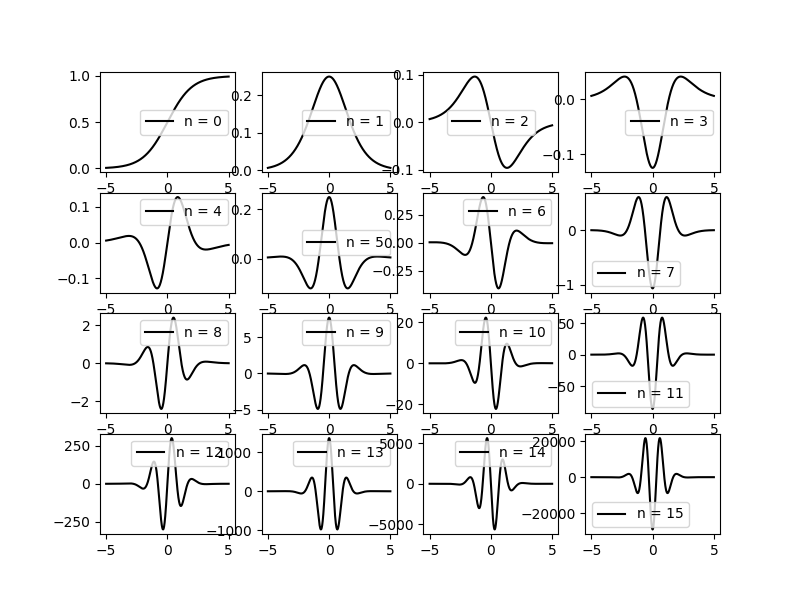
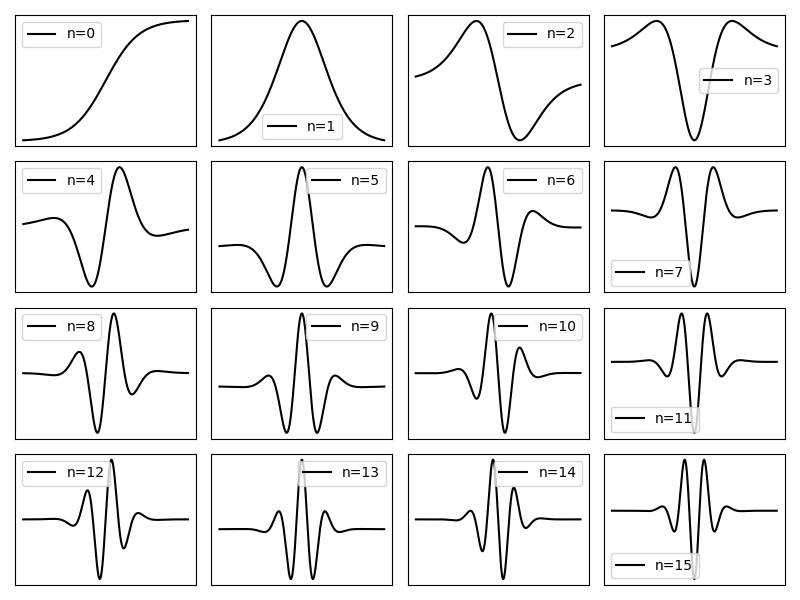
.

diff --git a/app/src/routes/about/+page.svelte b/app/src/routes/about/+page.svelte
@@ -1,3 +1,89 @@
-<h1>Hi, I'm Joe!</h1>
+<p class="title">About</p>
 
-<p>This is my about page.</p>
+Hi, I'm Joe. I write about AI and math.
+
+<p class="title">Résumé</p>
+
+<div class="section">
+	<p class="title">Experience</p>
+
+	<div class="item">
+		<div class="title">Software Engineer</div>
+		<div class="text">Google Cloud AI</div>
+		<div class="text">2020 - present</div>
+	</div>
+
+	<div class="item">
+		<div class="title">Research Scientist</div>
+		<div class="text">Amazon Alexa</div>
+		<div class="text">2018 - 2020</div>
+	</div>
+
+	<div class="item">
+		<div class="title">Data Scientist</div>
+		<div class="text">National Security Agency</div>
+		<div class="text">2018</div>
+	</div>
+
+	<div class="item">
+		<div class="title">Postdoctoral Fellow</div>
+		<div class="text">National Institutes of Health</div>
+		<div class="text">2018 - 2020</div>
+	</div>
+</div>
+
+<div class="section">
+	<p class="title">Education</p>
+	<div class="item">
+		<div class="title">Ph.D. Mathematics</div>
+		<div class="text">Florida State University</div>
+		<div class="text">2012-2017</div>
+	</div>
+	<div class="item">
+		<div class="title">B.A. Mathematics</div>
+		<div class="text">St. Mary's College of Maryland</div>
+		<div class="text">2004-2008</div>
+	</div>
+</div>
+
+<style>
+	.title {
+		font-size: 24px;
+	}
+
+	.section .title {
+		font-size: 20px;
+	}
+
+	.section .item .title {
+		background-color: rgb(0, 0, 0, 0.66);
+		display: inline-block;
+		font-size: 16px;
+		color: #fff;
+		padding: 2px 8px;
+		border-radius: 8px;
+	}
+
+	.section .item::before {
+		background-color: #000;
+		border-radius: 50%;
+		content: '';
+		height: 12px;
+		left: -8px;
+		position: absolute;
+		top: 0;
+		width: 12px;
+	}
+
+	.section .item {
+		color: rgb(0, 0, 0, 0.66);
+		border-left: 4px solid #000;
+		padding: 4px 12px;
+		position: relative;
+	}
+
+	.section .item .text {
+		font-size: 14px;
+		font-style: italic;
+	}
+</style>

diff --git a/app/src/routes/+page.svelte b/app/src/routes/+page.svelte
@@ -12,3 +12,12 @@
 		</li>
 	{/each}
 </ul>
+
+<style>
+	ul {
+		list-style-type: none;
+	}
+	li {
+		padding: 12px;
+	}
+</style>

diff --git a/app/src/routes/posts/derivatives-of-the-sigmoid.md b/app/src/routes/posts/derivatives-of-the-sigmoid.md
@@ -69,8 +69,8 @@ The work of repeatedly differentiating $f$ is done by repeatedly multiplying its
 
 $$
 \begin{aligned}
-D*n^n\sum*{j=0}^n(-1)^jv*{n,j} &= \sum*{j=0}^n(-1)^jD*n^nv*{n,j} \\
-&= \sum*{j=0}^n(-1)^j(j+1)^nv*{n,j}.
+D_n^n\sum_{j=0}^n(-1)^jv_{n,j} &= \sum_{j=0}^n(-1)^jD_n^nv_{n,j} \\
+&= \sum_{j=0}^n(-1)^j(j+1)^nv_{n,j}.
 \end{aligned}
 $$
 
@@ -94,10 +94,10 @@ We have
 
 $$
 \begin{aligned}
-D*kv*{k,j} &=
-\begin{pmatrix} D*{k-1} & 0 \\ \begin{pmatrix} 0 & \cdots & 0 & -k \end{pmatrix} & k+1 \end{pmatrix}
-\begin{pmatrix} v*{k-1,j} \\ {k\choose j} \end{pmatrix} \\
-&= \begin{pmatrix} D*{k-1}v*{k-1,j} \\ -k{k-1\choose j}+(k+1){k\choose j} \end{pmatrix}.
+D_kv_{k,j} &=
+\begin{pmatrix} D_{k-1} & 0 \\ \begin{pmatrix} 0 & \cdots & 0 & -k \end{pmatrix} & k+1 \end{pmatrix}
+\begin{pmatrix} v_{k-1,j} \\ {k\choose j} \end{pmatrix} \\
+&= \begin{pmatrix} D_{k-1}v_{k-1,j} \\ -k{k-1\choose j}+(k+1){k\choose j} \end{pmatrix}.
 \end{aligned}
 $$
 
@@ -117,12 +117,11 @@ so that the bottom is $(j+1){k\choose j}$. Thus, $D_kv_{k,j}=(j+1)v_{k,j}$.
 
 Here's a plot of the derivatives of the sigmoid function using the above formula:
 
-<img src={SigmoidDerivs} alt="Derivatives of the sigmoid function"/>
+<img src={SigmoidDerivs} alt="Derivatives of the sigmoid function" width="100%"/>
 
 And, here's the Python script that produced the plot:
 
 ```python
-
 import numpy as np
 import matplotlib.pyplot as plt
 
@@ -147,12 +146,12 @@ def df(n, x):
     return res
 
 
-x = np.linspace(-5, 5, 1000)[:, np.newaxis].repeat(16, axis=1).T
-y = np.array([df(n, x[n]) for n in range(16)])
+x = np.linspace(-5, 5, 1000)
+y = np.array([df(n, x) for n in range(16)])
 
 fig, ax = plt.subplots(4, 4, figsize=(8, 6))
-for xi, yi, i in zip(x, y, range(16)):
-    ax[i / 4, i % 4].plot(xi, yi, 'k-', label="n = %i" % (i))
+for i, yi, in enumerate(y):
+    ax[i / 4, i % 4].plot(x, yi, 'k-', label="n = %i" % (i))
     ax[i / 4, i % 4].legend()
 ```
 

diff --git a/app/src/routes/posts/coherent-structures-in-the-wind.md b/app/src/routes/posts/coherent-structures-in-the-wind.md
@@ -44,11 +44,11 @@ Computing the last equation requires being able to approximate the flow $F$ and 
 
 Here's a sample of the data for a month-long window (8/14-9/15/05) during which hurricane Katrina hit New Orleans. The hurricane appears as a rogue gust in the Gulf of New Mexico about halfway through the video.
 
-<video src={KatrinaVf} width="100%"></video>
+<video src={KatrinaVf} width="100%" controls></video>
 
 I used forward Euler to do the numerical integration and cubic b-splines (via [FITPACK][fitpack]) to do interpolation on a sphere with the Earth's radius. Here are the resulting ridges in the finite time Lyapunov exponent field parameterized by $t$ equal to 2 weeks for a sliding window over the same month-long period.
 
-<video src={KatrinaLcs} width="100%"></video>
+<video src={KatrinaLcs} width="100%" controls></video>
 
 Computing $\sigma(x;t)$ involves advecting a grid of trajectories by the flow. This is highly parallelizable. To capitalize on this, I wrote the numerical integration and differentiation routines in Fortran that I wrapped with Python (via [f2py][f2py]) and launched multiple processes (via Python's [multiprocessing][multiprocessing] module) to carry out parallel computations.
 

diff --git a/app/README.md b/app/README.md
@@ -1,1 +1,3 @@
 # Personal website of Joe McKenna
+
+joemckenna.xyz
